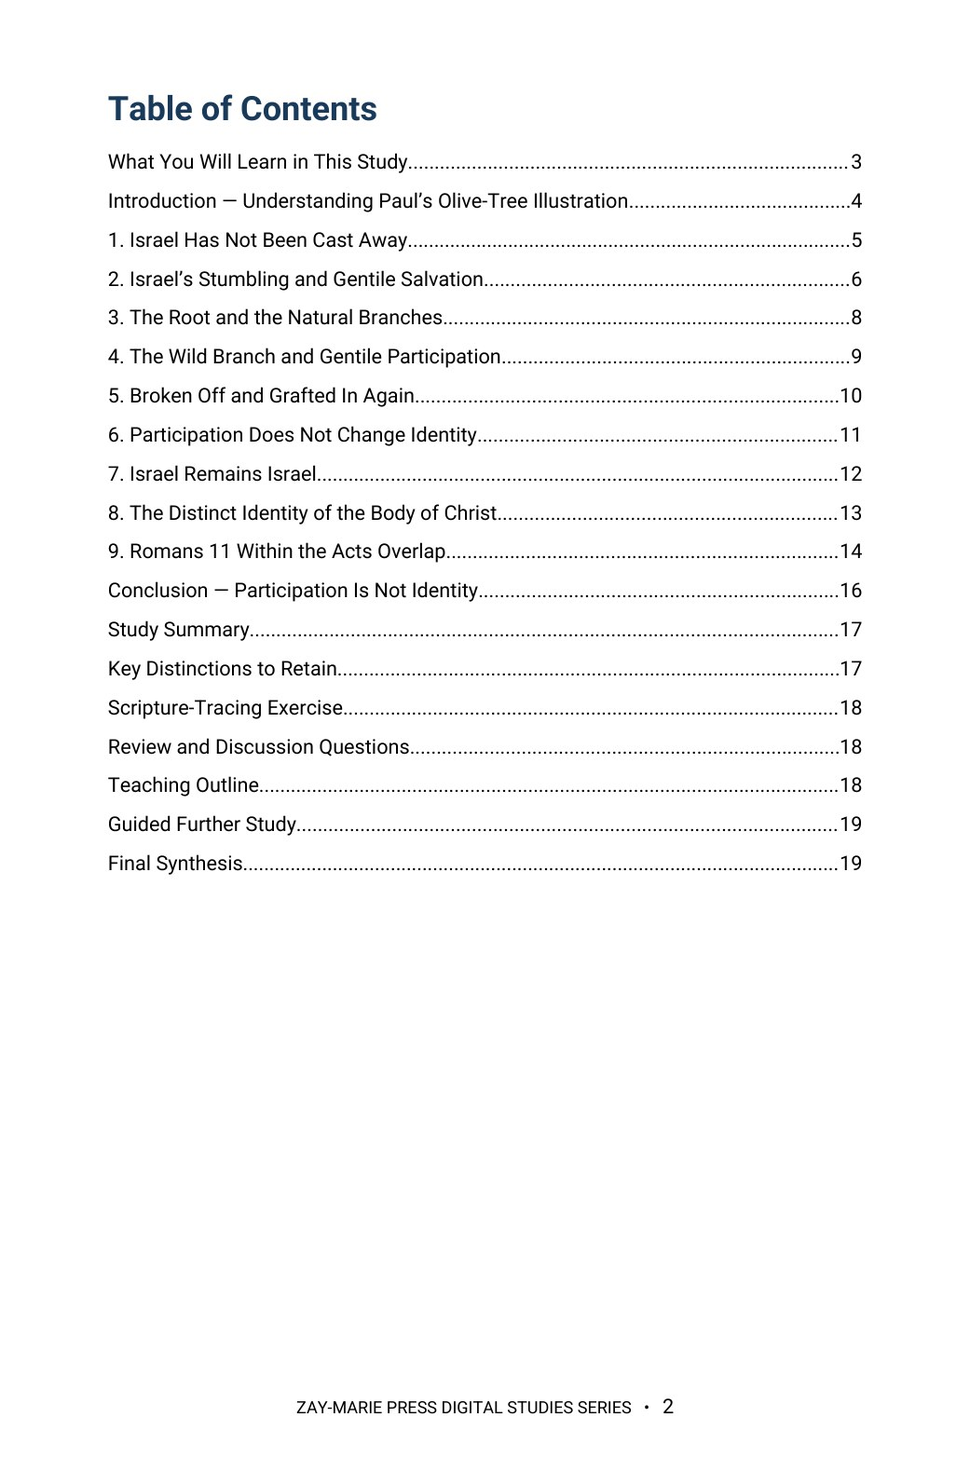
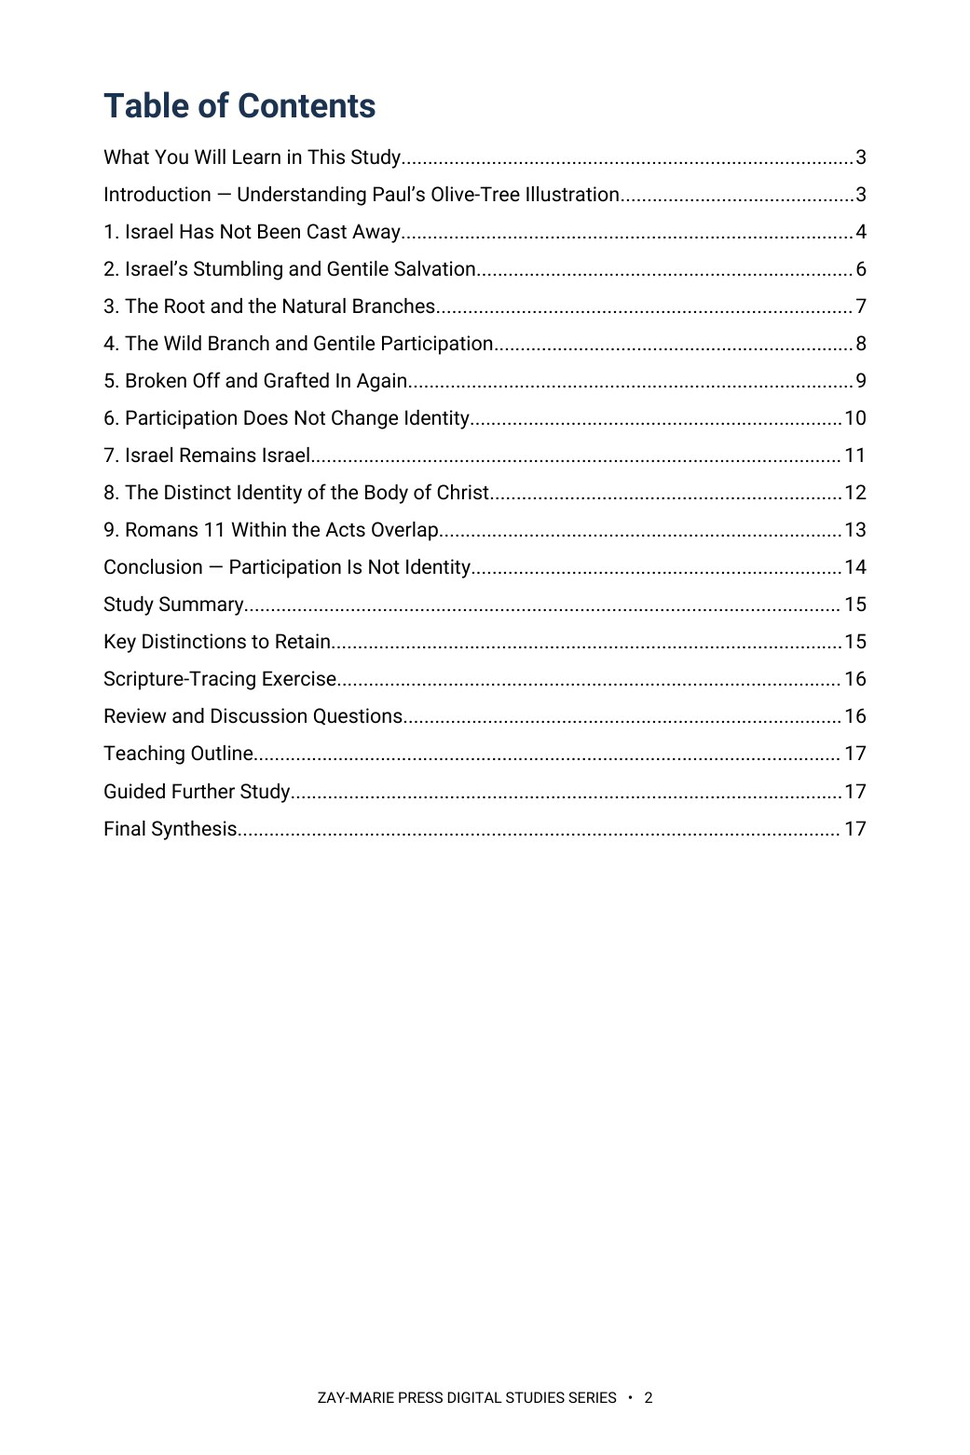
Study 13: rebuilt in Roboto 10 pt on current page (18 pages); previews 2, 3, 5 re-rendered; site.js 13:18; trackers v1.102/v1.196
Claude-Session: https://claude.ai/code/session_01HC7bs9KYP2scp4hCL6DkTp

Changed region(s): [[0.0922, 0.0615, 0.6455, 0.6146], [0.8607, 0.0922, 0.8915, 0.6146], [0.3074, 0.9526, 0.6455, 0.9834]]

diff --git a/study-13-the-olive-tree-and-the-body-of-christ.html b/study-13-the-olive-tree-and-the-body-of-christ.html
@@ -15,8 +15,8 @@
 <section class="detail-section cream"><div class="wrap"><div class="eyebrow">KEY SCRIPTURES</div><h2>Examine the Passages for Yourself</h2><div class="scripture-grid"><div class="scripture-card"><h3>Romans 11:1–6</h3><p>Establishes that God has not cast away His people Israel and identifies the remnant.</p></div><div class="scripture-card"><h3>Romans 11:11–15</h3><p>Traces Israel’s stumbling, Gentile salvation, and future receiving.</p></div><div class="scripture-card"><h3>Romans 11:16–18</h3><p>Introduces the patriarchal root, natural branches, wild branch, and warning against boasting.</p></div><div class="scripture-card"><h3>Romans 11:19–24</h3><p>Explains breaking off, standing by faith, and the possibility of grafting in again.</p></div><div class="scripture-card"><h3>Romans 11:25–29</h3><p>Affirms Israel’s partial blindness, future, and the gifts and calling of God.</p></div><div class="scripture-card"><h3>Ephesians 2:11–16</h3><p>Reveals the one new man and one Body in Christ according to the Mystery.</p></div><div class="scripture-card"><h3>Jeremiah 11:16–17</h3><p>Supplies Old Testament olive-tree imagery for careful comparison.</p></div><div class="scripture-card"><h3>Acts 9; 28:25–28</h3><p>Marks Mystery’s beginning with Paul and the later national suspension of Prophecy’s operation.</p></div></div></div></section>
 <section class="detail-section"><div class="wrap"><div class="eyebrow">FROM THE STUDY</div><h2>Grafting Changes Participation, Not Identity</h2><div class="excerpt"><blockquote>“The wild branch is genuinely grafted in, yet it does not become a natural branch.”</blockquote><p>Romans 11 preserves Israel’s prophetic standing while explaining Gentile participation in Abrahamic-rooted blessing. Ephesians 2 establishes the Body’s new Mystery identity in Christ; these truths answer different questions and must not be collapsed into one metaphor.</p></div></div></section>
 <section class="detail-section soft"><div class="wrap"><div class="eyebrow">A LOOK INSIDE</div><h2>Preview the Study Before You Purchase</h2><p class="preview-instruction">Click any page to enlarge it for reading.</p><div class="preview-grid"><div class="preview-card"><a class="preview-image-link" data-preview-lightbox href="assets/study-13-page-2.jpg"><img src="assets/study-13-page-2.jpg" alt="Study 13 interior preview — page 2, table of contents"/></a><div class="page-no">Page 2</div><h3>Table of Contents</h3><p>See the full structure of the study, from the introduction through the final synthesis.</p></div><div class="preview-card"><a class="preview-image-link" data-preview-lightbox href="assets/study-13-page-3.jpg"><img src="assets/study-13-page-3.jpg" alt="Study 13 interior preview — page 3, what you will learn"/></a><div class="page-no">Page 3</div><h3>What You Will Learn</h3><p>See the skills and questions this study will teach you to work through.</p></div><div class="preview-card"><a class="preview-image-link" data-preview-lightbox href="assets/study-13-page-5.jpg"><img src="assets/study-13-page-5.jpg" alt="Study 13 interior preview — page 5, Israel has not been cast away"/></a><div class="page-no">Page 5</div><h3>Israel Has Not Been Cast Away</h3><p>Begin where Paul begins in Romans 11, with a question and the control it sets for the whole chapter.</p></div></div></div></section>
-<section class="detail-section"><div class="wrap"><div class="eyebrow">WHAT’S INCLUDED</div><h2>A Focused Study Built for<br/>Understanding and Teaching</h2><div class="includes-grid"><div class="include-item"><h3>19-Page In-Depth Biblical Study</h3><p>A focused, Scripture-based reading of Romans 11’s olive-tree illustration and Israel’s continuing future.</p></div><div class="include-item"><h3>Nine Core Teaching Sections</h3><p>Move from Paul’s opening control through the branches, the Body, and the Acts Overlap.</p></div><div class="include-item"><h3>Romans 11 Phrase-by-Phrase Study</h3><p>Work through the root, branches, grafting, partial blindness, and Israel’s future reception.</p></div><div class="include-item"><h3>Israel and Gentile Participation</h3><p>Distinguish standing and blessing from transferred identity, covenant status, or national inheritance.</p></div><div class="include-item"><h3>Romans 11 and Ephesians 2 Comparison</h3><p>See why the olive tree and the one Body address different doctrinal questions.</p></div><div class="include-item"><h3>Ten Review Questions</h3><p>Test the study’s controls concerning Israel, Gentiles, the root, and Body identity.</p></div><div class="include-item"><h3>Teaching Outline</h3><p>A ready framework for presenting Paul’s argument with precision and restraint.</p></div><div class="include-item"><h3>Guided Study and Final Synthesis</h3><p>Trace the passages directly and explain why participation does not determine identity.</p></div></div></div></section>
-<section class="detail-section cream"><div class="wrap"><div class="final-buy"><div><div class="eyebrow">STUDY 13 · DIGITAL STUDY</div><h2>The Olive Tree and the Body of Christ</h2><p>19-page digital PDF · For personal use</p></div><div class="final-offer"><div class="detail-price">$5.99</div><span class="detail-button pending" aria-disabled="true">Get the Study</span></div></div><a class="back-link" href="digital-studies.html">← Back to All Digital Studies</a></div></section><section class="study-method-course-bridge"><div class="wrap"><div class="study-method-course-panel"><div><div class="eyebrow">BUILD THE INTERPRETIVE METHOD</div><h2>Want More Than a Focused Study?</h2><p>Digital Studies examine particular biblical subjects and difficult passages. The 40-lesson Biblical Hermeneutics course teaches a complete, repeatable method for establishing meaning in context, determining proper assignment, and making responsible application.</p></div><a class="btn btn-primary" href="biblical-hermeneutics-course.html">BIBLICAL HERMENEUTICS COURSE</a></div></div></section></main>
+<section class="detail-section"><div class="wrap"><div class="eyebrow">WHAT’S INCLUDED</div><h2>A Focused Study Built for<br/>Understanding and Teaching</h2><div class="includes-grid"><div class="include-item"><h3>18-Page In-Depth Biblical Study</h3><p>A focused, Scripture-based reading of Romans 11’s olive-tree illustration and Israel’s continuing future.</p></div><div class="include-item"><h3>Nine Core Teaching Sections</h3><p>Move from Paul’s opening control through the branches, the Body, and the Acts Overlap.</p></div><div class="include-item"><h3>Romans 11 Phrase-by-Phrase Study</h3><p>Work through the root, branches, grafting, partial blindness, and Israel’s future reception.</p></div><div class="include-item"><h3>Israel and Gentile Participation</h3><p>Distinguish standing and blessing from transferred identity, covenant status, or national inheritance.</p></div><div class="include-item"><h3>Romans 11 and Ephesians 2 Comparison</h3><p>See why the olive tree and the one Body address different doctrinal questions.</p></div><div class="include-item"><h3>Ten Review Questions</h3><p>Test the study’s controls concerning Israel, Gentiles, the root, and Body identity.</p></div><div class="include-item"><h3>Teaching Outline</h3><p>A ready framework for presenting Paul’s argument with precision and restraint.</p></div><div class="include-item"><h3>Guided Study and Final Synthesis</h3><p>Trace the passages directly and explain why participation does not determine identity.</p></div></div></div></section>
+<section class="detail-section cream"><div class="wrap"><div class="final-buy"><div><div class="eyebrow">STUDY 13 · DIGITAL STUDY</div><h2>The Olive Tree and the Body of Christ</h2><p>18-page digital PDF · For personal use</p></div><div class="final-offer"><div class="detail-price">$5.99</div><span class="detail-button pending" aria-disabled="true">Get the Study</span></div></div><a class="back-link" href="digital-studies.html">← Back to All Digital Studies</a></div></section><section class="study-method-course-bridge"><div class="wrap"><div class="study-method-course-panel"><div><div class="eyebrow">BUILD THE INTERPRETIVE METHOD</div><h2>Want More Than a Focused Study?</h2><p>Digital Studies examine particular biblical subjects and difficult passages. The 40-lesson Biblical Hermeneutics course teaches a complete, repeatable method for establishing meaning in context, determining proper assignment, and making responsible application.</p></div><a class="btn btn-primary" href="biblical-hermeneutics-course.html">BIBLICAL HERMENEUTICS COURSE</a></div></div></section></main>
 <div class="preview-lightbox" id="preview-lightbox" role="dialog" aria-modal="true" aria-label="Enlarged study page preview"><button class="preview-lightbox-close" type="button" aria-label="Close enlarged preview">×</button><img src="" alt=""/><div class="preview-lightbox-hint">Scroll to read the full page · Press Esc or click outside the page to close</div></div>
 <footer class="site-footer"><div class="wrap footer-grid"><div class="footer-about"><h3>Zay-Marie Press</h3><p class="footer-tagline"><em>Where the Bible Means What It Says.</em></p><p>Zay-Marie Press is a Christian theological publisher dedicated to producing doctrinally precise, carefully structured biblical resources that equip pastors, teachers, and serious students with clarity, depth, and Scripture-anchored truth.</p><p><a href="https://zaymariepress.com">zaymariepress.com</a><br/><a href="mailto:info@zaymariepress.com">info@zaymariepress.com</a></p></div><div class="footer-column"><h3>Explore</h3><div class="footer-links-stacked"><a href="books.html">Books</a><br/><a href="series.html">Series</a><br/><a href="biblical-hermeneutics-course.html">Course</a><br/><a href="digital-studies.html">Digital Studies</a><br/><a href="resources.html">Resources</a><br/><a href="bible-book-summaries.html">Bible Book Summaries</a><br/><a href="doctrinal-packets.html">Doctrinal Packets</a><br/><a href="historical-drift.html">Historical Drift</a><br/><a href="about.html">About</a><br/><a href="contact.html">Contact</a></div></div><div class="footer-column"><h3>Reader Support</h3><div class="footer-links-stacked"><a href="reader-support.html#faq">FAQ</a><br/><a href="reader-support.html#shipping-returns">Shipping &amp; Returns</a><br/><a href="reader-support.html#digital-downloads">Digital Downloads</a><br/><a href="reader-support.html#contact-support">Contact Support</a></div></div><div class="footer-column"><h3>Acts Overlap</h3><p><strong>Acts Overlap Theology Series</strong></p><p><em>Two Distinct Streams. One Overlap.</em></p><p><a href="series.html">Series Overview</a></p></div></div><div class="wrap footer-bottom">© 2026 Zay-Marie Press. All rights reserved.</div></footer>
 <script src="site.js"></script><script>(function(){var box=document.getElementById("preview-lightbox"),img=box.querySelector("img"),close=box.querySelector(".preview-lightbox-close"),hint=box.querySelector(".preview-lightbox-hint"),hintTimer;function shut(){clearTimeout(hintTimer);box.classList.remove("open");hint.classList.remove("fade");document.body.style.overflow="";img.src=""}document.querySelectorAll("[data-preview-lightbox]").forEach(function(a){a.addEventListener("click",function(e){e.preventDefault();clearTimeout(hintTimer);img.src=a.getAttribute("href");img.alt=a.querySelector("img").alt;hint.classList.remove("fade");box.classList.add("open");document.body.style.overflow="hidden";box.scrollTop=0;hintTimer=setTimeout(function(){hint.classList.add("fade")},3000)})});close.addEventListener("click",shut);box.addEventListener("click",function(e){if(e.target===box)shut()});document.addEventListener("keydown",function(e){if(e.key==="Escape"&&box.classList.contains("open"))shut()})})();</script></body></html>

diff --git a/site.js b/site.js
@@ -62,7 +62,7 @@ const resourceModal=document.querySelector('#resource-modal'), resourceModalTitl
 if(resourceModal&&resourceModalTriggers.length){const closeResourceModal=()=>{resourceModal.hidden=true;document.body.classList.remove('resource-modal-open');lastResourceTrigger?.focus();};resourceModalTriggers.forEach(trigger=>trigger.addEventListener('click',()=>{lastResourceTrigger=trigger;if(resourceModalTitle)resourceModalTitle.textContent=trigger.dataset.title||'Resource';if(resourceModalDescription)resourceModalDescription.textContent=trigger.dataset.description||'';if(resourceModalLink){resourceModalLink.href=trigger.dataset.href||'#';resourceModalLink.textContent=trigger.dataset.linkText||'OPEN RESOURCE';}resourceModal.hidden=false;document.body.classList.add('resource-modal-open');resourceModalClose?.focus();}));resourceModalClose?.addEventListener('click',closeResourceModal);resourceModal.addEventListener('click',e=>{if(e.target===resourceModal)closeResourceModal();});document.addEventListener('keydown',e=>{if(e.key==='Escape'&&!resourceModal.hidden)closeResourceModal();});}
 
 /* Display the verified final-PDF page count at the primary purchase decision point. */
-const digitalStudyPageCounts={1:17,2:19,3:16,4:17,5:15,6:15,7:14,8:13,9:15,10:20,11:15,12:15,13:19,14:15,15:15,16:16,17:18,18:18,19:16,20:16,21:17,22:16,23:14,24:16,25:17,26:16,27:16,28:16,29:19,30:17,31:18,32:19,33:18,34:16,35:16,36:16,37:16,38:16,39:16,40:16,41:16,42:17,43:17,44:19,45:19,46:20,47:19,48:18,49:20,50:19,51:20,52:19,53:19,54:17,55:20,56:20,57:20,58:19,59:20,60:15,61:16,62:18,63:17,64:17,65:16,66:16,67:17,68:16,69:17,70:17,71:16};
+const digitalStudyPageCounts={1:17,2:19,3:16,4:17,5:15,6:15,7:14,8:13,9:15,10:20,11:15,12:15,13:18,14:15,15:15,16:16,17:18,18:18,19:16,20:16,21:17,22:16,23:14,24:16,25:17,26:16,27:16,28:16,29:19,30:17,31:18,32:19,33:18,34:16,35:16,36:16,37:16,38:16,39:16,40:16,41:16,42:17,43:17,44:19,45:19,46:20,47:19,48:18,49:20,50:19,51:20,52:19,53:19,54:17,55:20,56:20,57:20,58:19,59:20,60:15,61:16,62:18,63:17,64:17,65:16,66:16,67:17,68:16,69:17,70:17,71:16};
 const digitalStudyMatch=window.location.pathname.match(/\/study-(\d+)-/i);
 const digitalStudyFormat=document.querySelector('.detail-hero .detail-format');
 if(digitalStudyMatch&&digitalStudyFormat){const studyNumber=Number(digitalStudyMatch[1]),pageCount=digitalStudyPageCounts[studyNumber];if(pageCount)digitalStudyFormat.textContent=`Digital PDF · ${pageCount} Pages`;}

diff --git a/CLAUDE.md b/CLAUDE.md
@@ -23,7 +23,7 @@ These are kept in the repo at `controlling-documents/` and are the current versi
 - As of v1.50 (publisher directive, 2026-10-03), the **What You Will Learn in This Study** section is always bulleted, never set as running paragraphs, written into this file in the same pass (Master Standard Section 3 item 4, Section 6 structure line, Section 22): a list of bullet points, each describing one process, textual marker or interpretive discipline the reader will practice (Section 17 still governs what they may say); at most one short lead-in line may stand above the bullets (for example, “By the end of this study, you should be able to:”); the Study Goal callout and the Study Outline keep their own forms. It governs every new study and every study rebuilt or retrofitted from now on; earlier studies take it when reopened or when the publisher directs. In every study check (Step 1), report whether the section is bulleted. First applied to Study 43.
 **`controlling-documents/Digital_Studies_Relationship_Map_v1.39.md`** — records each study's distinct subject, its related studies, the eight priced six-study collections, the Paul's Missionary Journeys cross-reference map, and the five primary catalog categories (currently version 1.39, covers Studies 1–71; update it as new studies publish, bump the version number, rename the file to match, and log the change in its own version-history table — mirroring the Master Standard's `_vX.Y` filename convention). Check a proposed topic against it before recommending or writing a new study. (2026-09-28: the file was missing from this repo despite this note referencing it; replaced from the publisher's copy and bumped v1.15→v1.25 in the same pass. If this note ever again points to a version not present under `controlling-documents/`, ask the publisher for a copy rather than proceeding without the check.)
 - **`controlling-documents/Digital_Studies_Category_Standard_v1.1.md`** — FINAL and binding (publisher, 2026-10-01): the rules for the five primary catalog categories (Foundations, Israel & Prophecy, Body of Christ, Passages, Doctrinal Themes), the ordered decision procedure for new studies, the precedents, all 71 fixed assignments, and the cover-label form for each category. Read it before placing any card or cover label. Do not ask the publisher where a study belongs; apply the procedure and state the result. Only the publisher changes a ruling; then bump this Standard's version and filename, re-letter the cover, and update the Relationship Map.
-- **`controlling-documents/Doctrinal_Upgrade_Retrofit_Plan_v1.101.md`** — working tracker for retrofitting Studies 1–59 to the 2026-10-02 doctrinal upgrade (Framework/PAM v1.1, Master Standard v1.40, Rules 7–17): withdrawn-wording search keys, impact tiers, waves and the per-study method. Read it before continuing the retrofit in any session; update status, bump the version and rename the file as work proceeds.
+- **`controlling-documents/Doctrinal_Upgrade_Retrofit_Plan_v1.102.md`** — working tracker for retrofitting Studies 1–59 to the 2026-10-02 doctrinal upgrade (Framework/PAM v1.1, Master Standard v1.40, Rules 7–17): withdrawn-wording search keys, impact tiers, waves and the per-study method. Read it before continuing the retrofit in any session; update status, bump the version and rename the file as work proceeds.
 - **`controlling-documents/Doctrinal_Packet_Standard_v0.3.md`** — Doctrinal Packet Standard (DRAFT; §7 approved). Governs the separate Doctrinal Packets product strand (5-page interpretive PDFs per Bible book — a print-friendly cover as page 1 plus 4 content pages, $2.99, KJV, pilot: Genesis, live at `packet-genesis.html`, hub `doctrinal-packets.html`; site pages say "5 Pages", cover styles live in `packets.css`, Old Testament blue and New Testament soft pale green, hub listed in Bible order). **Preview rule (publisher directive, 2026-09-29, packets only):** previews show about one page's worth in two cropped views (top of page 1 through the anchor texts; the chart section) — never the exegesis, architecture, Mystery contrast, logic chain, outline, or closing. Master Standard §16/§17 still govern Digital Studies. Bump the version and rename the file as the Standard is finalized.
 - **`controlling-documents/Preview_Page_Spoiler_Retrofit_Audit_v1.4.md`** — working tracker for the Studies 1–60 preview-page conclusion-spoiler retrofit (see the section below). Read it before continuing that audit in any session; update its status fields and changelog, bump the version, and rename the file to match as the audit proceeds — same `_vX.Y` convention as the other controlling documents. As of v1.1, the website-side half was DONE: all 60 studies' "What You'll Study" text was judged against the rule (methodology documented in the file) and 22 points across 11 studies were rewritten and pushed; an unrelated Study 22 content bug (Study 21's content had leaked into it) was also found and fixed. As of v1.2, the publisher supplied Studies 1–60's interior production PDFs and the interior-PDF half was also surveyed (read-only): 10 studies (37, 41, 45, 47, 48, 49, 51, 52, 53, 54) were found to have at least one interior "What You Will Learn" violation, 50 studies were confirmed compliant, and the orphaned `assets/study-45-sanctification-under-grace.docx` (removed from the repo per the publisher in v1.0) was confirmed word-for-word identical to Study 45's actual production interior PDF content. As of v1.3, the publisher supplied editable DOCX sources for all 10 violating studies; all 15 violating points were rewritten and approved, delivered as corrected final PDFs, and — along the way — a second defect was found and fixed (Studies 47 and 48's source DOCX still had an unintegrated cover placeholder despite both being long-published live with real covers; fixed by inserting the existing approved cover art). The website's "What You Will Learn" preview image (`study-NN-page-3.jpg`) was regenerated from the corrected content for all 10 studies and pushed to `main` (commit `cea1859`), verified against a fresh clone. **The website side of this audit is now fully compliant for all 60 studies.** Outstanding: the publisher's purchasable interior PDF files themselves have corrected versions delivered, but distribution to existing purchasers was decided by the publisher on 2026-09-29: silent swap of the files behind the existing downloads, no reissue notice (recorded in the v1.4 changelog entry; the product files are not in this repo).
 

diff --git a/controlling-documents/Doctrinal_Upgrade_Retrofit_Plan_v1.102.md b/controlling-documents/Doctrinal_Upgrade_Retrofit_Plan_v1.102.md
@@ -194,3 +194,4 @@ Working tracker for correcting published studies to the Framework/PAM v1.1, Mast
 - v1.99 (2026-10-04): Study 6 rebuilt in Roboto at 10 pt on the current page, 15 pages (was 16). 23 callouts reduced to 5; WYWL bullets 1, 3, 5, 9 reworded; Romans 11 four-point list and triad added; overlap and Rule 17 sentences added; resumption wording softened; arrows » and checkboxes [ ]. Previews 2, 3 and 6 re-rendered at 1041×1562; site.js 6:15; study page 15 pages.
 - v1.100 (2026-10-04): Study 9 rebuilt in Roboto at 10 pt on the current page, 15 pages (was 16). Callouts 4 -> 5 (new 'Romans 11 Boundaries' callout, drafted from the standing rule wording; to be compared with Study 13 when that study is retrofitted); WYWL bullets 3, 4, 6, 7, 8 reworded; overlap, Rule 17 and Revelation sentences added; 'A Note on the Acts Overlap Framework' retitled 'A Note on the Acts Overlap' and framework wording removed. New cover (publisher artwork, 1024×1536, badge removed) replaces the earlier cover. Previews 2, 3 and 8 re-rendered at 1041×1562; site.js 9:15; study page 15 pages.
 - v1.101 (2026-10-04): Study 11 rebuilt in Roboto at 10 pt on the current page, 15 pages (was 15 on the old 432×648 page; page count unchanged). WYWL bullets 1, 3, 4, 7, 8 reworded to process lines; intro paragraphs removed; 'framework' wording removed from reader text (10 places); overlap, Rule 17, Cornelius and 1 Timothy sentences added; Acts 28 set as national suspension with no chronology; Teaching Outline numbered. Previews 2, 3 and 5 re-rendered at 1041×1562 (substantive preview moved from page 4 to page 5, relabelled Pentecost); site.js 11:15 unchanged.
+- v1.102 (2026-10-04): Study 13 rebuilt in Roboto at 10 pt on the current page, 18 pages (was 19 on the old 432×648 page). WYWL opening paragraph removed, lead-in added, seven bullets reworded to process lines; 'framework' wording removed (2); four boundaries, triad and 'Identity is fixed by divine program, not by metaphor' added in section 6; 'Salvation is come unto the Gentiles' line added; overlap and Rule 17 sentences added in section 9; Acts 28 national suspension with no chronology; Teaching Outline numbered. Previews 2, 3 and 5 re-rendered at 1041×1562; site.js 13:18; study page 18 pages. Study 9's Romans 11 callout left as drafted.

diff --git a/controlling-documents/Digital_Studies_PAM_Audit_v1.196.md b/controlling-documents/Digital_Studies_PAM_Audit_v1.196.md
@@ -425,3 +425,4 @@ Study 15 PDF not yet supplied. Typography: none of Studies 2, 3, 6, 8 is in EB G
 - v1.193 (2026-10-04): Study 6 rebuilt in Roboto at 10 pt on the current page from the publisher's DOCX, 15 pages (was 16; old 432×648 page retired). Changes: What You Will Learn as bullets under one lead-in (bullets 1, 3, 5, 9 reworded to process lines); 18 extra callouts set as run-in paragraphs (5 boxed); Romans 11 four-point list and triad added to section 10; overlap and Rule 17 sentences added; section 11 resumption wording softened; arrows set as » (see Retrofit Plan v1.99).
 - v1.194 (2026-10-04): Study 9 rebuilt in Roboto at 10 pt on the current page from the publisher's DOCX, 15 pages (was 16; old 432×648 page retired); new cover from the publisher's artwork (badge removed). Changes: What You Will Learn as bullets under one lead-in (bullets 3, 4, 6, 7, 8 reworded to process lines); fifth callout 'Romans 11 Boundaries' added (full Romans 11 depth); overlap, Rule 17 and Revelation sentences added; resumption wording softened; 'framework' wording removed from reader text; arrows » (see Retrofit Plan v1.100).
 - v1.195 (2026-10-04): Study 11 rebuilt in Roboto at 10 pt on the current page, 15 pages; WYWL bullets reworded to process lines; 'framework' wording removed from reader text; overlap, Rule 17, Cornelius and 1 Timothy sentences added; Acts 28 national suspension, no chronology; Teaching Outline numbered (see Retrofit Plan v1.101).
+- v1.196 (2026-10-04): Study 13 rebuilt in Roboto at 10 pt on the current page, 18 pages; WYWL bullets reworded to process lines; four boundaries and triad added; overlap and Rule 17 sentences added; Acts 28 national suspension, no chronology; Teaching Outline numbered (see Retrofit Plan v1.102).
